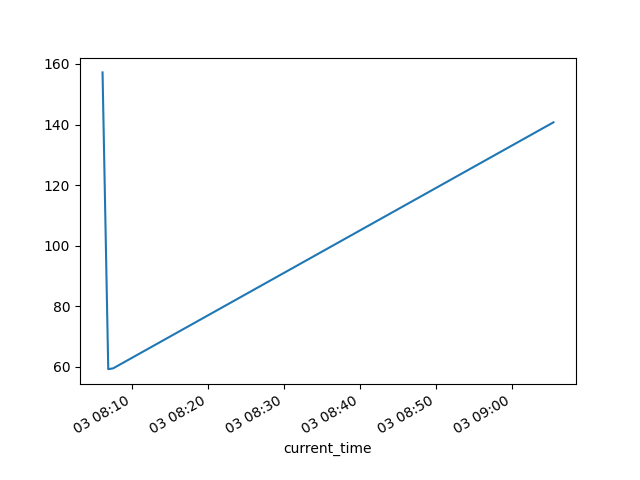
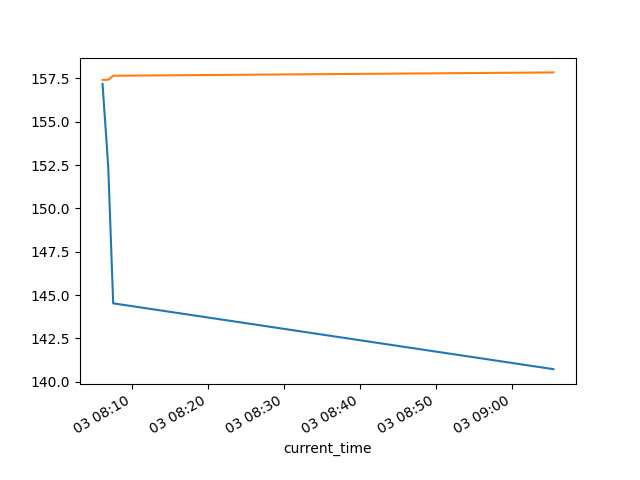
fixed csv

diff --git a/graph.py b/graph.py
@@ -13,7 +13,7 @@ def plot_bal_time_series_graph():
     plt.plot(balance)
 
     expected_return = df['expected_return'] + df['arbritrage_profit']
-    starting_balance = df['balance'].values[0]
+    starting_balance = df['balance'].values[0] + df['betfair_balance'].values[0]
     expected_return[0] += starting_balance
     expected_return.cumsum().plot()
 
